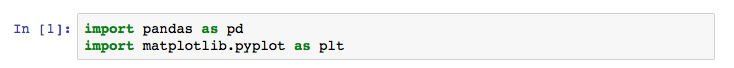
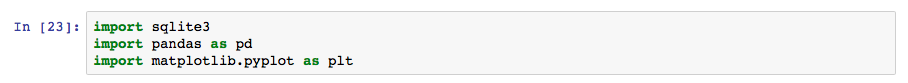
Changed to include SQL connection

diff --git a/analysis.html b/analysis.html
@@ -30,12 +30,12 @@
       <h1>Attendance by win percentages</h1>
       <p>Since I am using Jupyter Notebook to analyze data, I first had to load up the Pandas and Matplotlib libraries:</p>
       <img src="images/Libraries.png">
-      <p>I imported and displayed the win percentage table using Pandas</p>
+      <p>I accessed my game data fro SQLite and displayed the win percentage table using Pandas</p>
       <img src="images/win_import.png">
       <p>Using Matplotlib, I created and saved a scatterplot graph.</p>
       <img src="images/win_scatter_code.png">        <img src="images/Attend_by_wins.png">
       <h1>Attendance by Non-loss percentages</h1>
-      <p>Next I imported and displayed the nonloss percentage table.</p>
+      <p>Next I accessed my game data again and displayed the nonloss percentage table.</p>
       <img src="images/nonloss_import.png">
       <p> Like the win percentages, I created and saved a scatterplot graph of nonlosses & attendance using Matplotlib.</p>
       <img src="images/nonloss_scatter_code.png">

diff --git a/data_sort.html b/data_sort.html
@@ -35,12 +35,7 @@
             <img src="images/Percent_SQL.png">
             <p>I was able to insert columns with the win and non-loss percentages. </p>
             <img src="images/Modified_data.png" class="data">
-            <p>Using SQL CREATE commands: </p>
-            <img src="images/Create_tables.png">
-            <p>I created the two tables I was going to work with. </p>
-            <img src="images/Win_Table.png">
-            <img src="images/Nonloss_Table.png">
-            <p>Using SQLite, I exported these two tables as CSV files. In the next step, I will import these two CSV into a Jupyter notebook to create graphs using this data. </p>
+            <p>In the next step, I will use Jupyter notebook to connect to my SQL database, then create the two tables and graphs using this data.</p>
 
         </div>
       </div>
